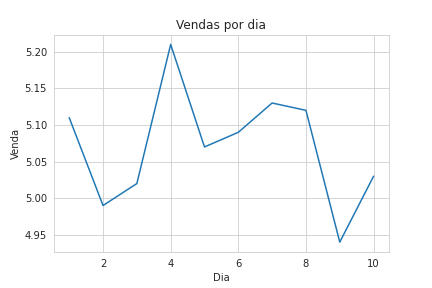
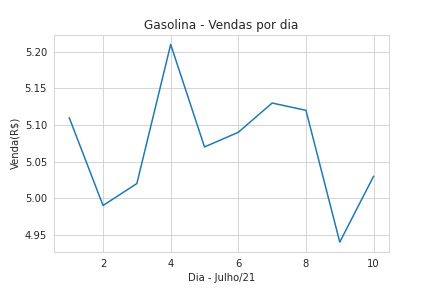
gasolina.csv pronto alterado em dev

Changed region(s): [[0.331, 0.0625, 0.6921, 0.125], [0.4213, 0.9375, 0.6019, 1.0], [0.0, 0.4062, 0.0602, 0.5938]]

diff --git a/gasolina.py b/gasolina.py
@@ -10,5 +10,5 @@ github_df
 with sns.axes_style('whitegrid'):
   
   grafico = sns.lineplot(data=github_df, x="dia", y="venda", palette="pastel")
-  grafico.set(title='Vendas por dia', xlabel='Dia', ylabel='Venda');
+  grafico.set(title='Gasolina - Vendas por dia', xlabel='Dia - Julho/21', ylabel='Venda(R$)');
   plt.savefig("gasolina.png");
